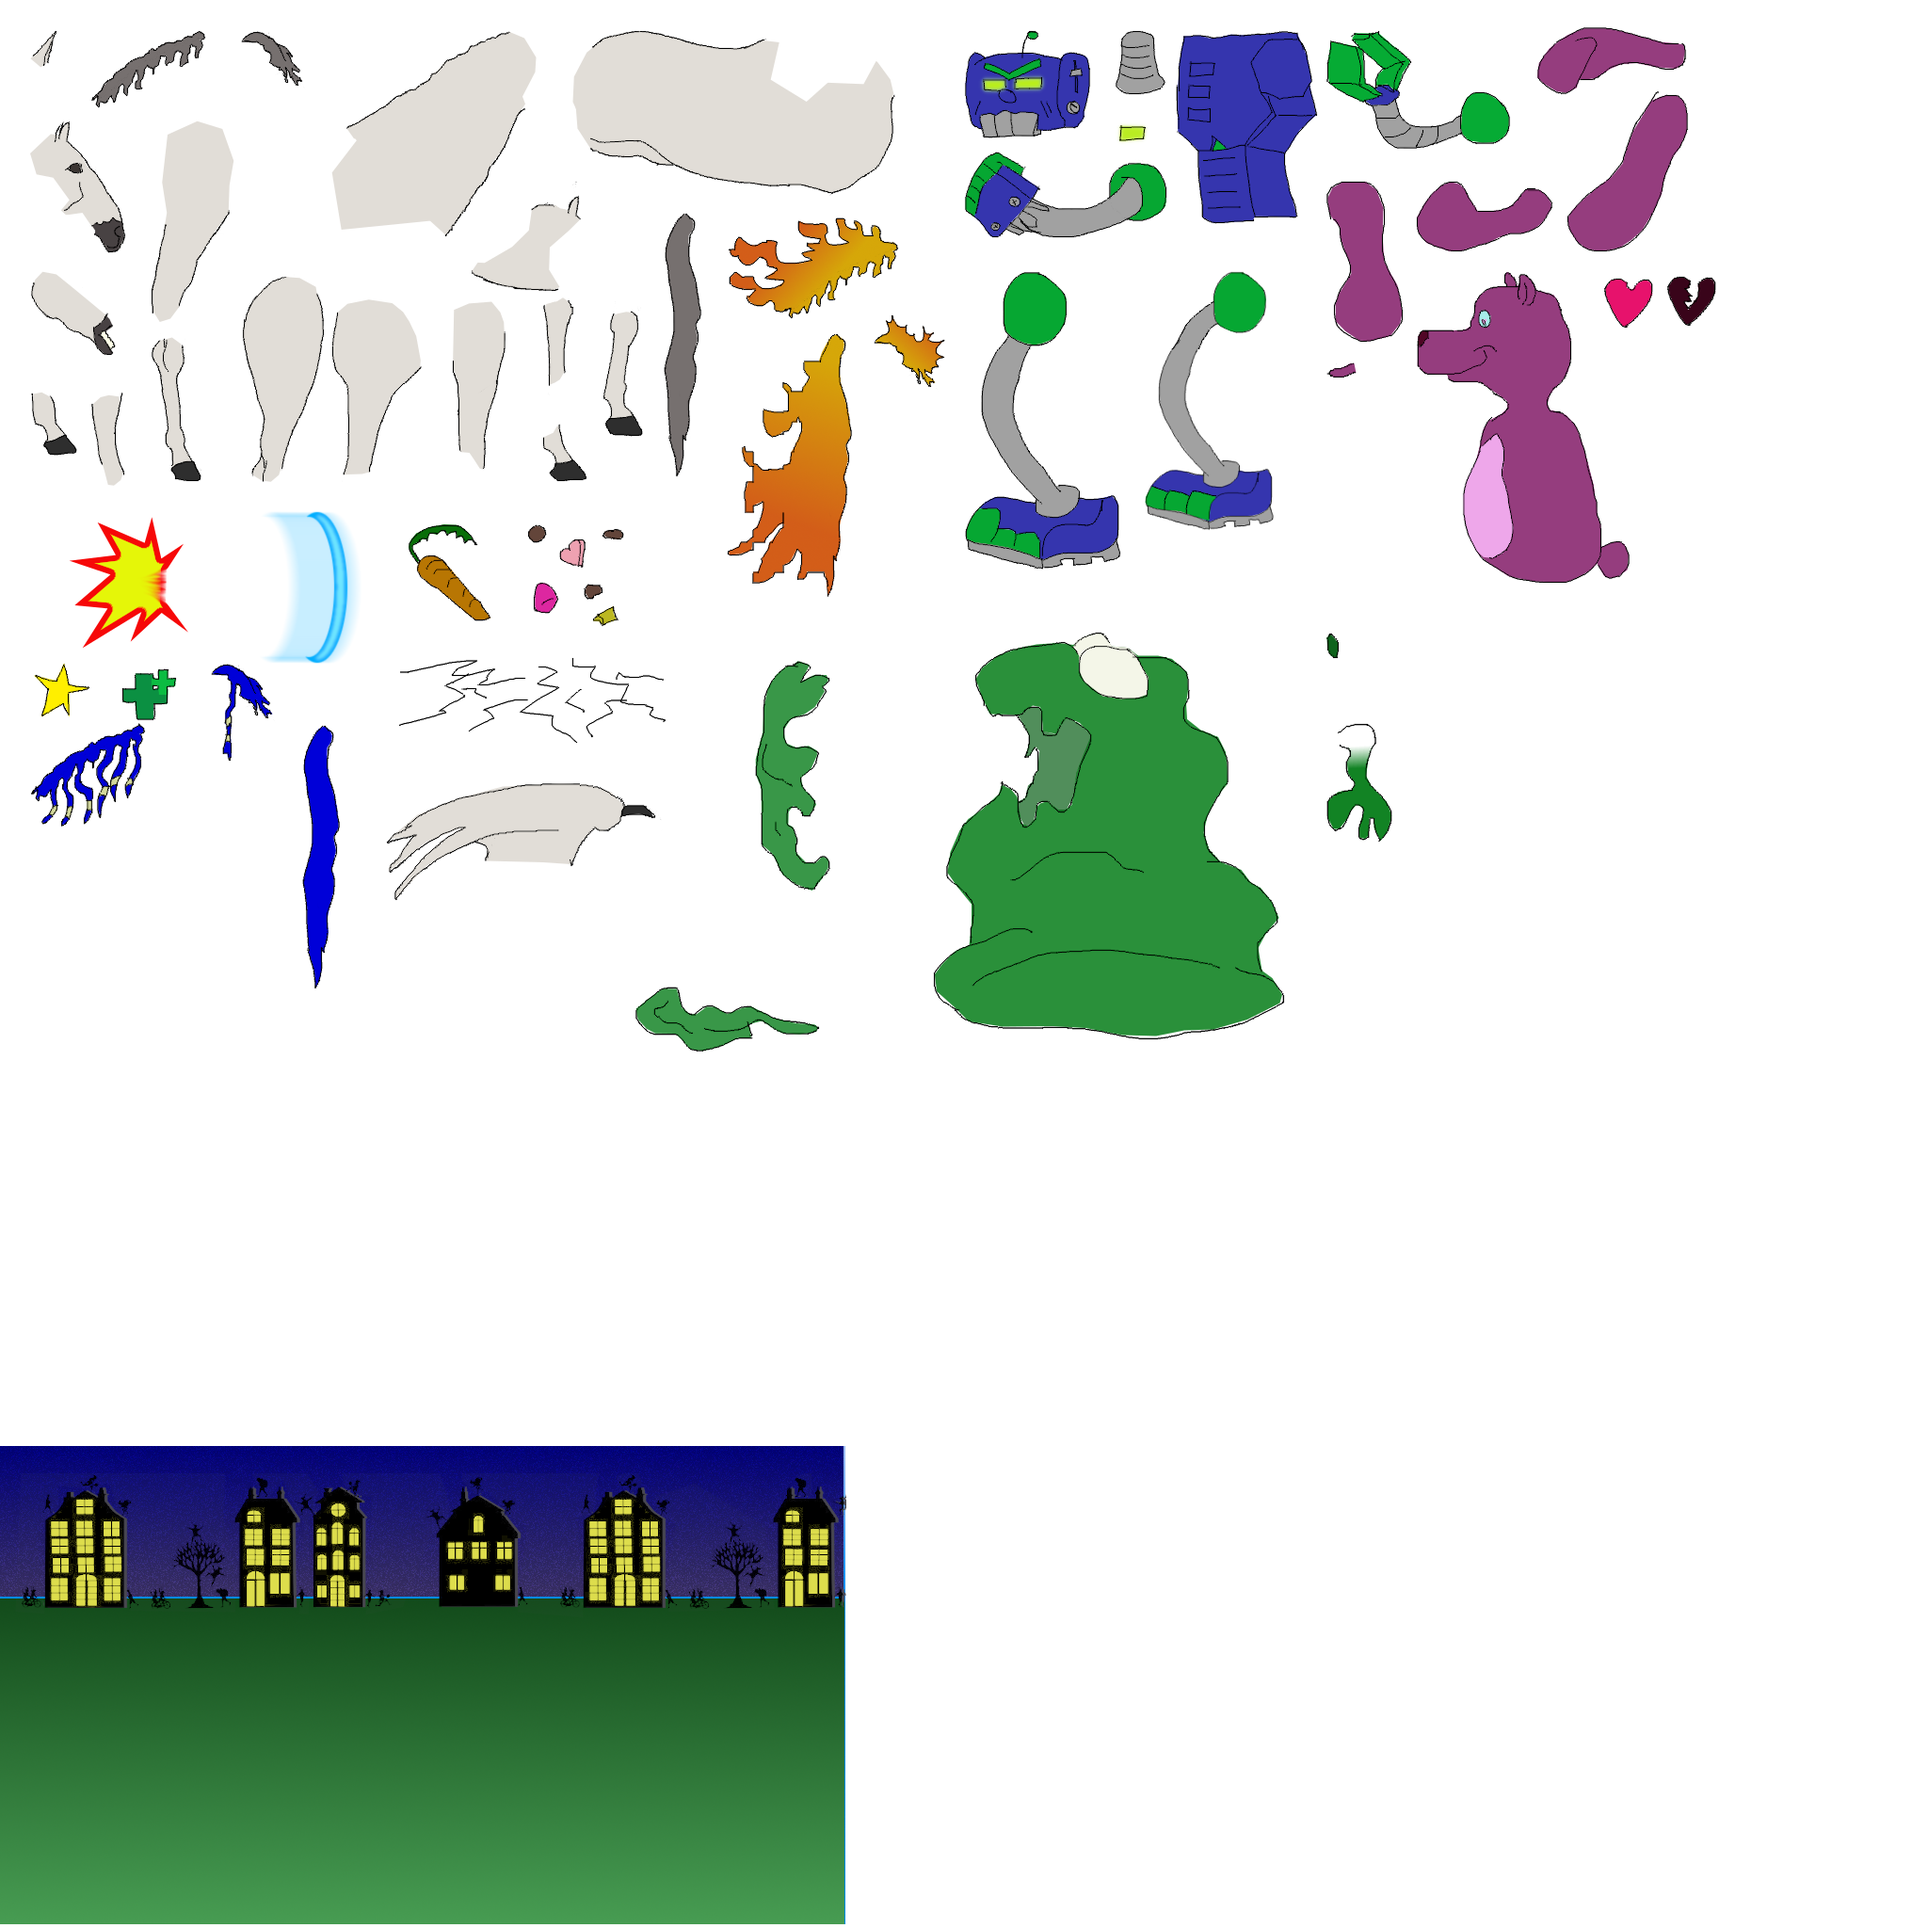
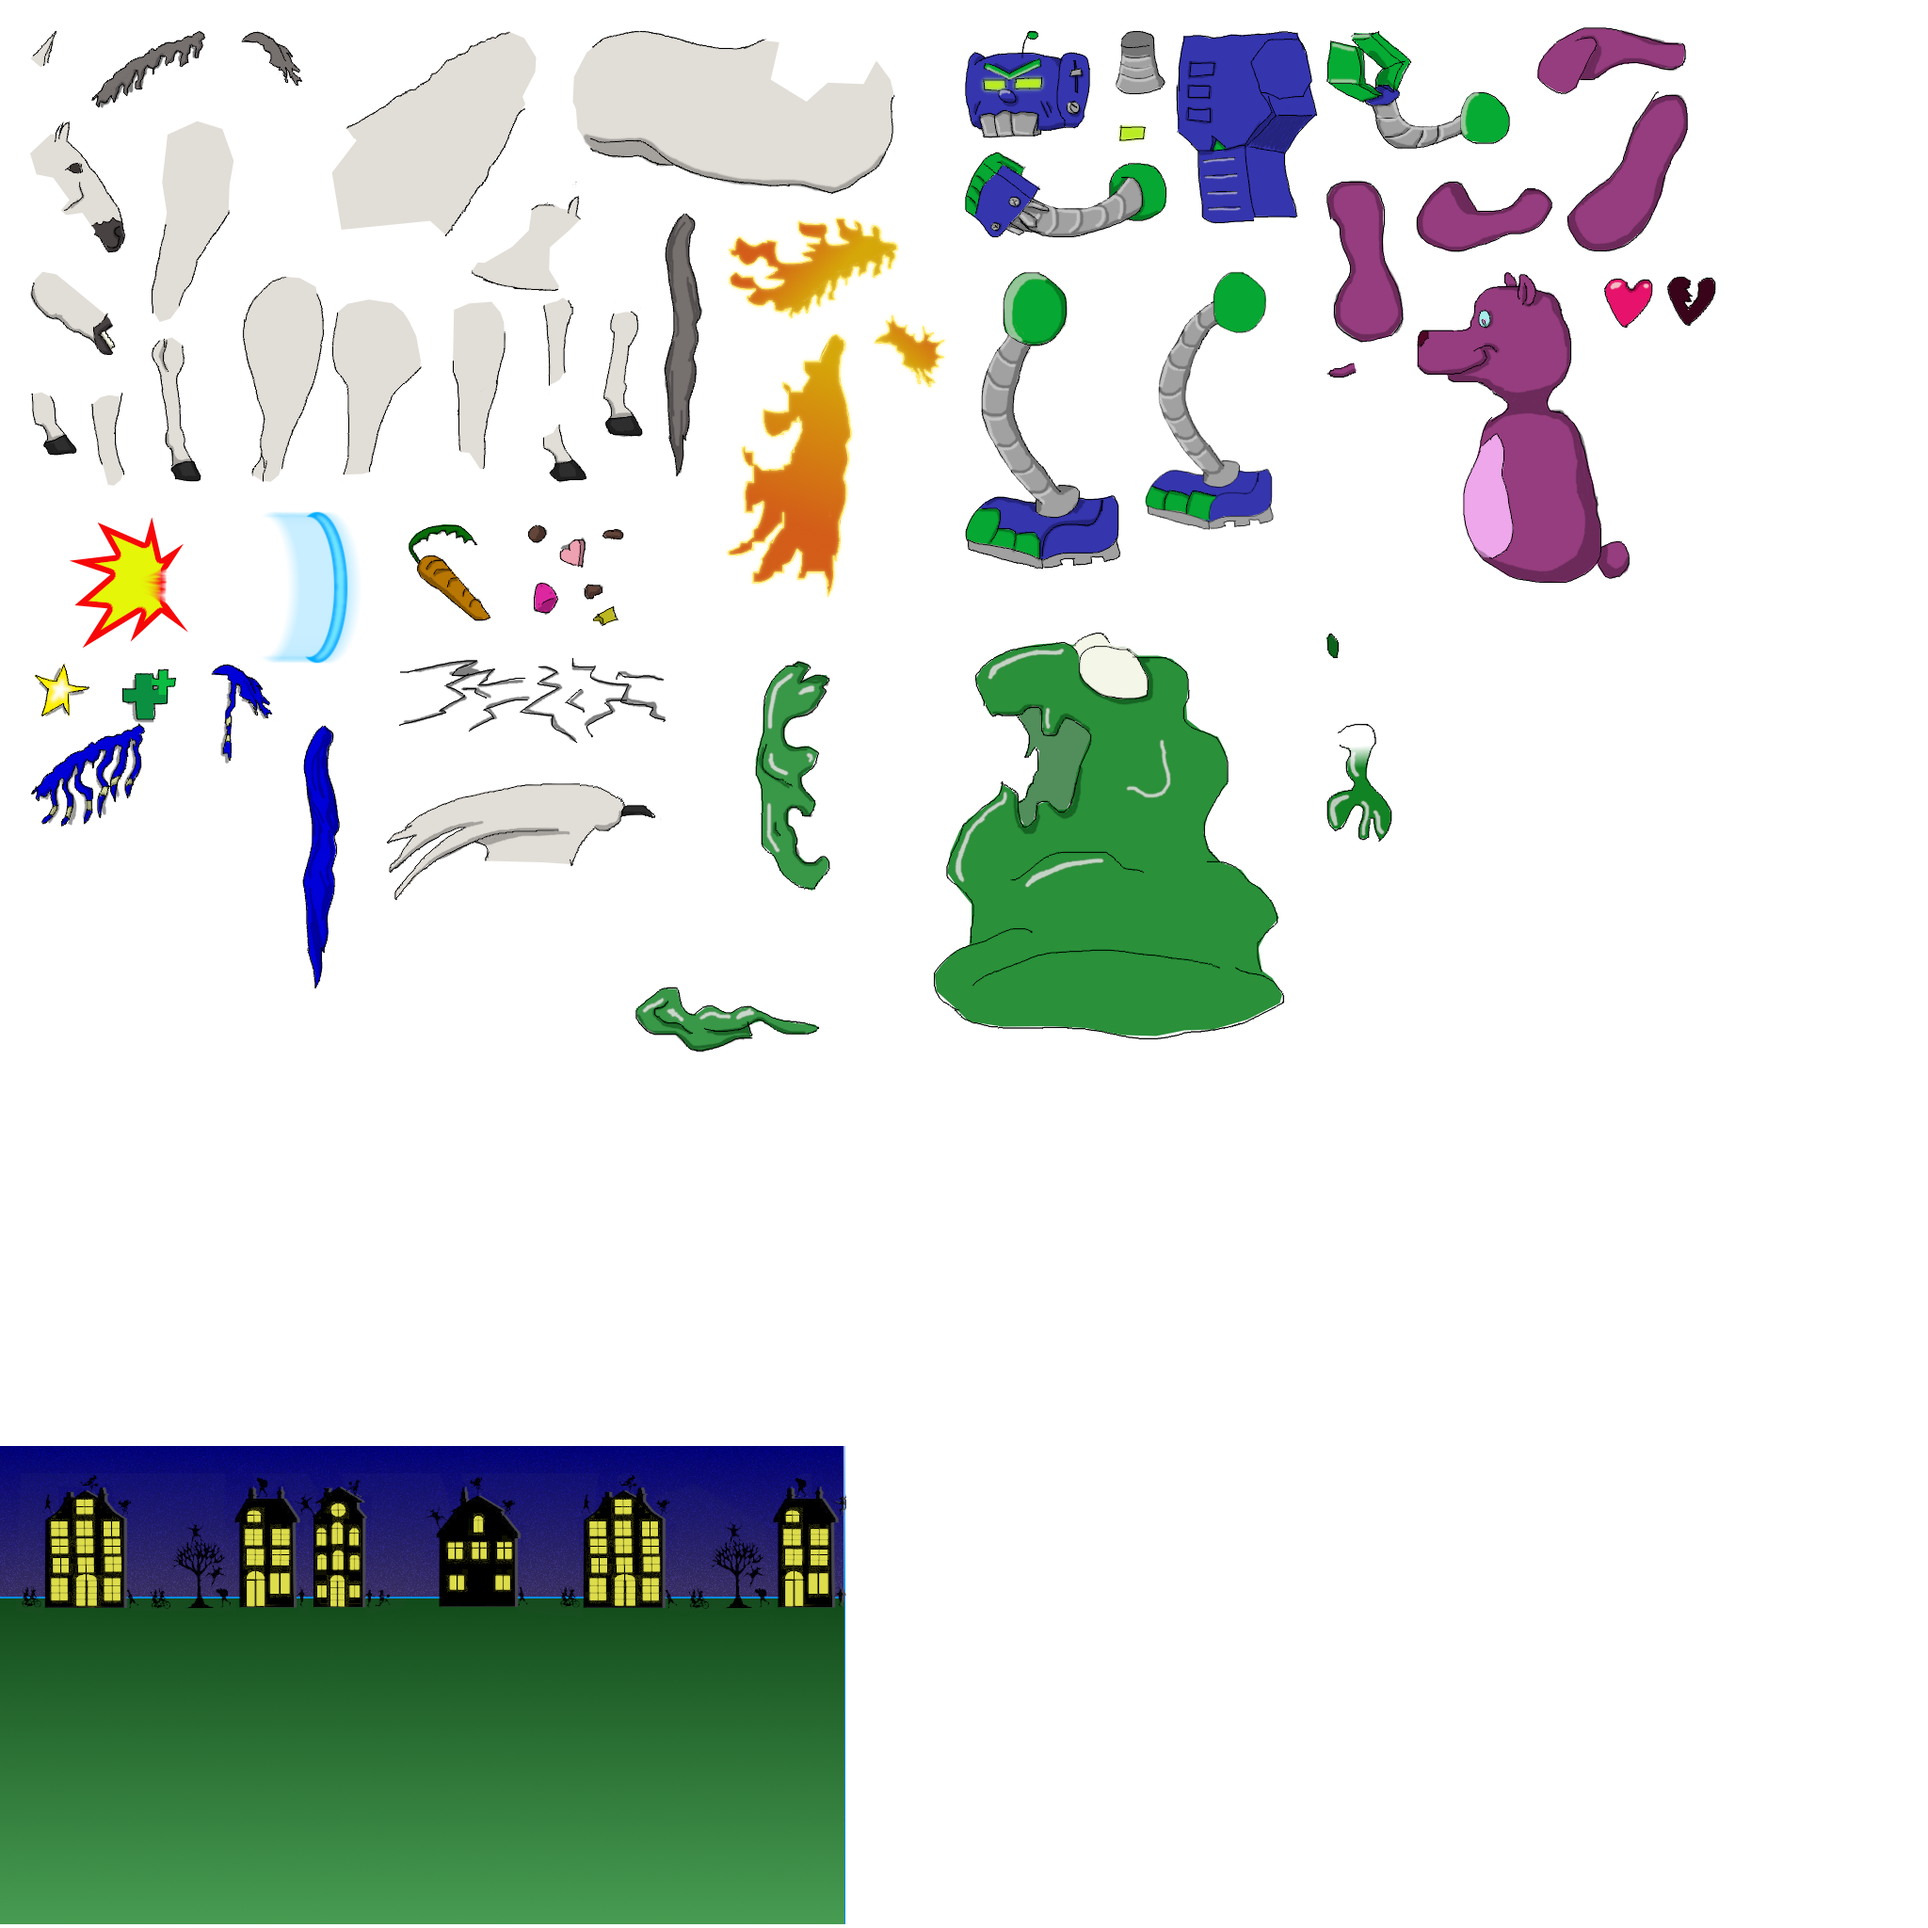
Improved graphics

diff --git a/src/components/CombatArena.tsx b/src/components/CombatArena.tsx
@@ -3,6 +3,7 @@ import className from "../className";
 import { enemyActionSelection } from "../combat";
 import {
   actionTurn,
+  CombatStatus,
   endEncounter,
   selectCombatLog,
   selectCombatStatus,
@@ -40,17 +41,27 @@ type Props = {
 };
 
 const CombatArena: React.FunctionComponent<Props> = ({ character }) => {
-  const combatStatus = useAppSelector(selectCombatStatus);
+  const delayedCombatStatus = useAppSelector(selectCombatStatus);
   const combatLog = useAppSelector(selectCombatLog);
   const encounter = useAppSelector(selectActiveEncounter);
   const dispatch = useAppDispatch();
+
+  const [combatStatus, setCombatStatus] =
+    useState<CombatStatus>(delayedCombatStatus);
+
+  useEffect(() => {
+    const timeoutId = setTimeout(() => {
+      setCombatStatus(delayedCombatStatus);
+    }, 3000);
+    return () => clearTimeout(timeoutId);
+  }, [delayedCombatStatus]);
 
   const [actionSelection, setActionSelection] = useState<string | null>(null);
   const [targetSelection, setTargetSelection] = useState<string | null>(null);
   const [actionFocus, setActionFocus] = useState(0);
 
-  const characterOrder = combatStatus.partyA
-    .concat(combatStatus.partyB)
+  const characterOrder = delayedCombatStatus.partyA
+    .concat(delayedCombatStatus.partyB)
     .sort((a, b) => a.card.initiative - b.card.initiative);
 
   useEffect(() => {
@@ -262,7 +273,7 @@ const CombatArena: React.FunctionComponent<Props> = ({ character }) => {
         {combatLog.map((sentence, index) => (
           <CombatLogSentence sentence={sentence} key={index} />
         ))}
-        {combatStatus.turn && (
+        {combatStatus.turn && combatStatus === delayedCombatStatus && (
           <p>
             <strong>{combatStatus.turn.creature.card.name}</strong> is aan de
             beurt!
@@ -289,6 +300,7 @@ const CombatArena: React.FunctionComponent<Props> = ({ character }) => {
       </div>
 
       {combatStatus.turn &&
+        combatStatus === delayedCombatStatus &&
         combatStatus.turn.creature.party === "left" &&
         !combatStatus.turn.isStunned &&
         actionSelection === null && (
@@ -339,6 +351,7 @@ const CombatArena: React.FunctionComponent<Props> = ({ character }) => {
           </div>
         )}
       {combatStatus.turn &&
+        combatStatus === delayedCombatStatus &&
         combatStatus.turn.creature.party === "left" &&
         actionSelection &&
         actionRequiresEnemyTarget(
@@ -376,6 +389,7 @@ const CombatArena: React.FunctionComponent<Props> = ({ character }) => {
           </div>
         )}
       {combatStatus.turn &&
+        combatStatus === delayedCombatStatus &&
         combatStatus.turn.creature.party === "left" &&
         actionSelection &&
         actionRequiresFriendlyTarget(
